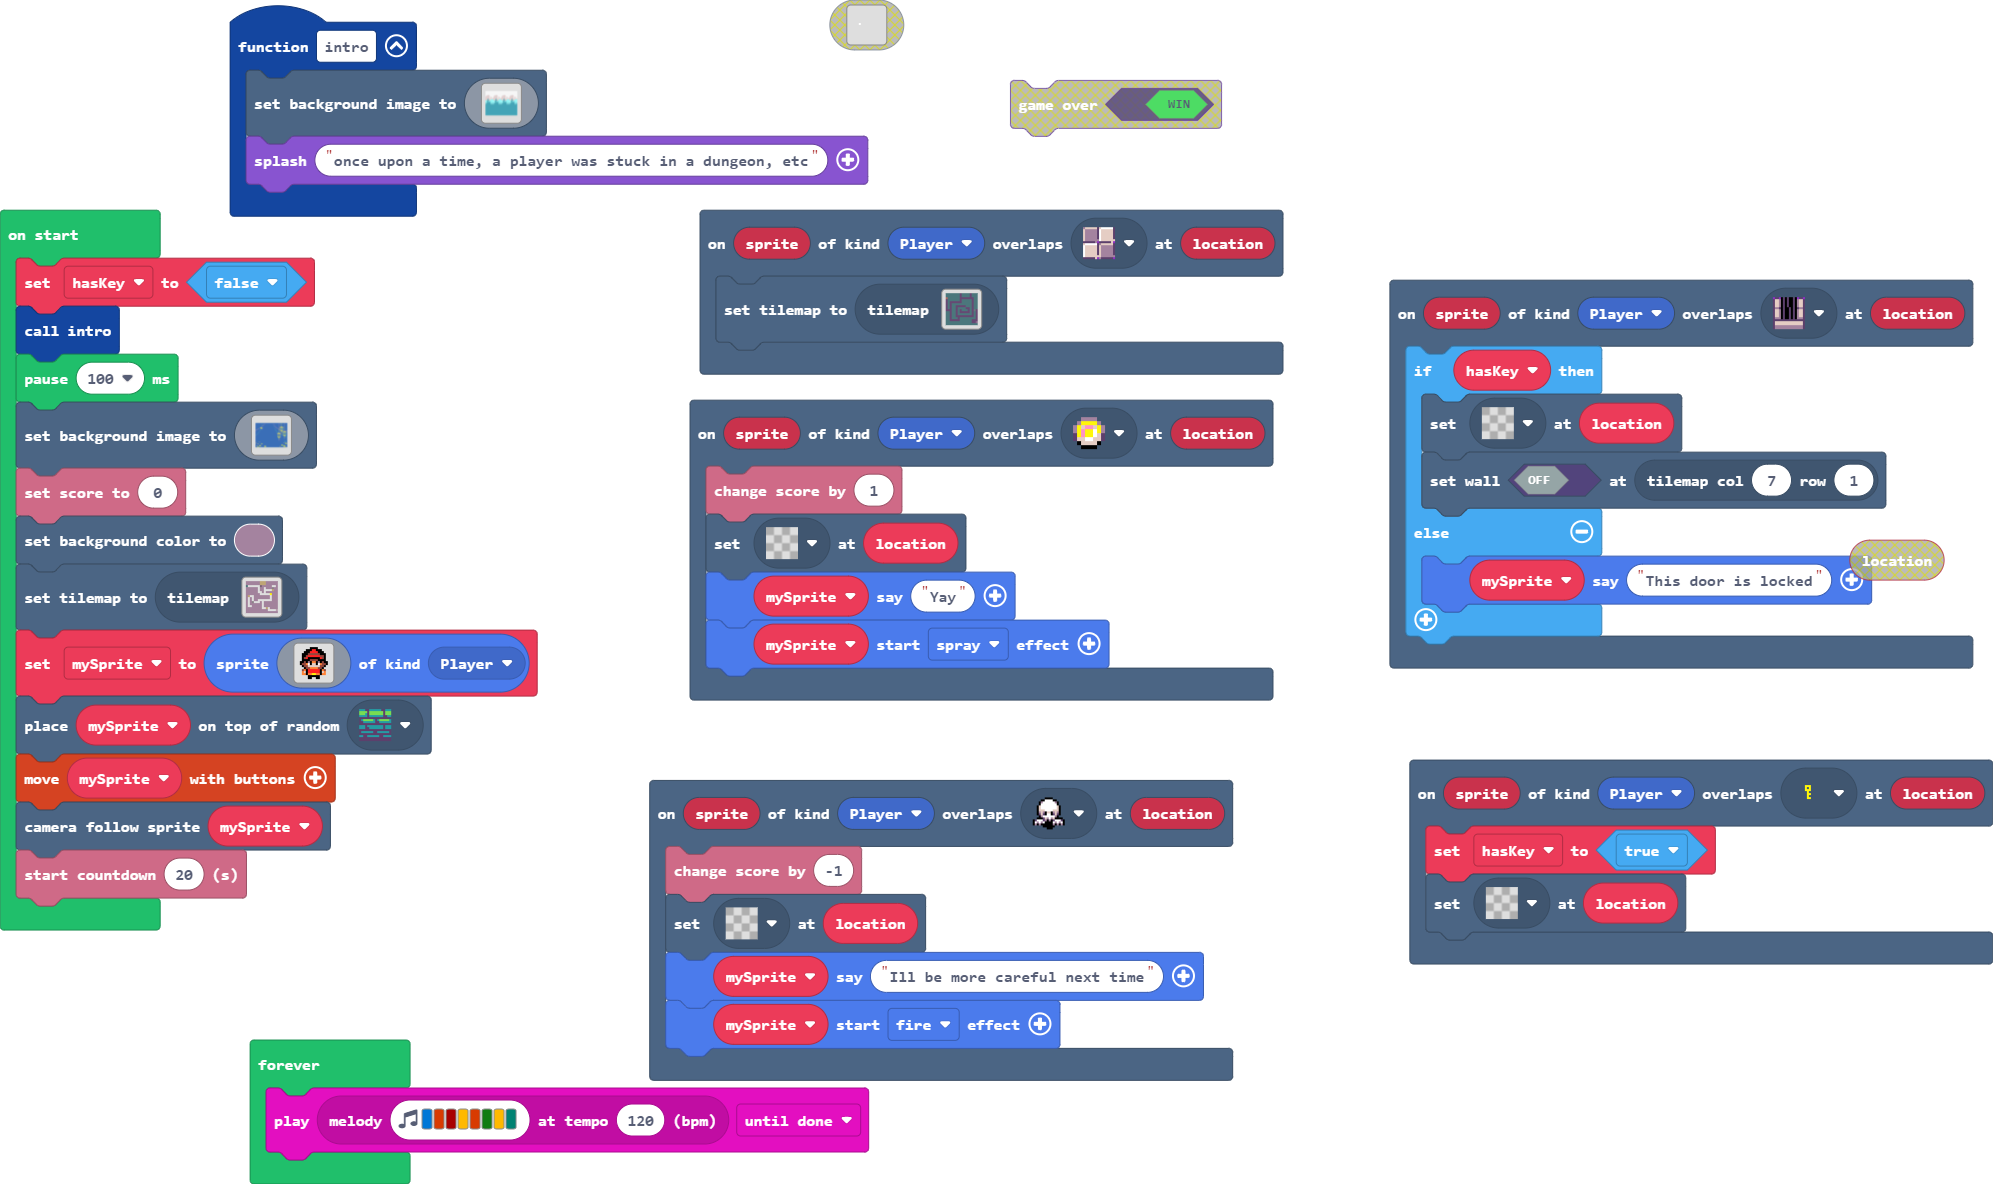
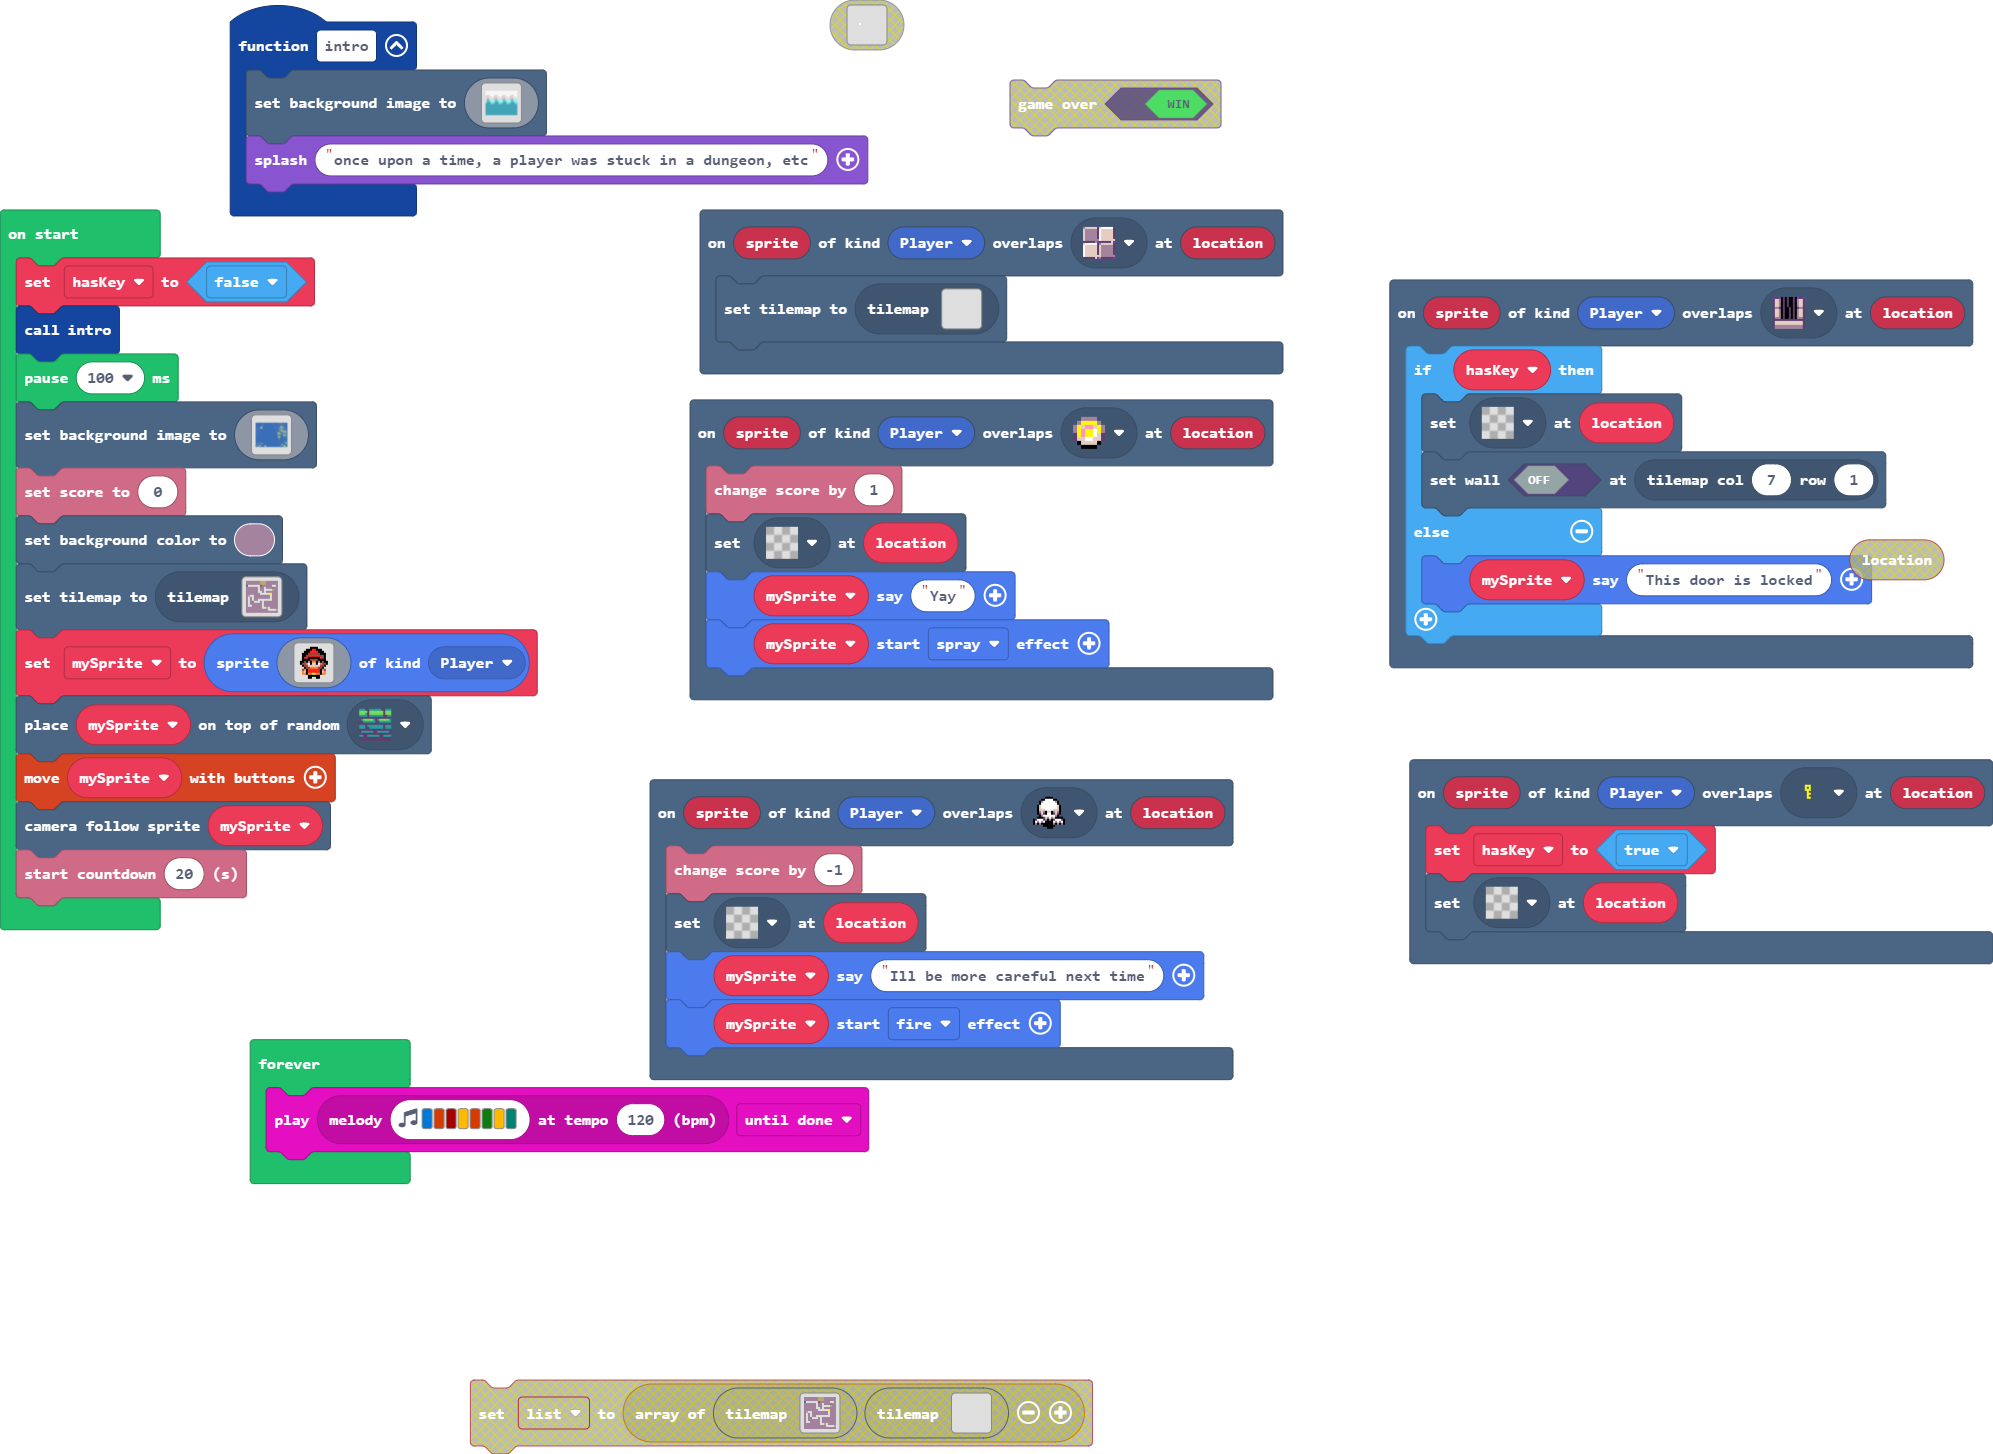
Update main.blocks, tilemap.g.jres, tilemap.g.ts

diff --git a/tilemap.g.ts b/tilemap.g.ts
@@ -8,8 +8,6 @@ namespace myTiles {
     export const tile2 = image.ofBuffer(hex``);
     //% fixedInstance jres blockIdentity=images._tile
     export const tile3 = image.ofBuffer(hex``);
-    //% fixedInstance jres blockIdentity=images._tile
-    export const tile5 = image.ofBuffer(hex``);
 
     helpers._registerFactory("tilemap", function(name: string) {
         switch(helpers.stringTrim(name)) {
@@ -109,7 +107,7 @@ namespace myTiles {
 . . . . . . . . . . . . . . . . 
 `, [myTiles.transparency16], TileScale.Sixteen);
             case "level6":
-            case "level6":return tiles.createTilemap(hex`1000100001010101010101020101010102010101010101010101010201010101020101010301010101010102020202020202010102010101010101020101010101020101020102020202020201010101010201010201020101010101010101010102010102010201010202020202010101020101020102010102010101010202010201010202020101020102010101020102050201010201010201020202020201020102010102010102010101010101010201020101020101020202020202020202010201010201010102010101010101010102010102020202020101010101010202020101010101010101010101010102020401010101010101010101010101010101`, img`
+            case "level6":return tiles.createTilemap(hex`1000100000000000000000000000000000000000000000000000000000000000000000000000000000000000000000000000000000000000000000000000000000000000000000000000000000000000000000000000000000000000000000000000000000000000000000000000000000000000000000000000000000000000000000000000000000000000000000000000000000000000000000000000000000000000000000000000000000000000000000000000000000000000000000000000000000000000000000000000000000000000000000000000000000000000000000000000000000000000000000000000000000000000000000000000000000000000`, img`
 . . . . . . . . . . . . . . . . 
 . . . . . . . . . . . . . . . . 
 . . . . . . . . . . . . . . . . 
@@ -126,7 +124,140 @@ namespace myTiles {
 . . . . . . . . . . . . . . . . 
 . . . . . . . . . . . . . . . . 
 . . . . . . . . . . . . . . . . 
-`, [myTiles.transparency16,sprites.dungeon.greenOuterEast0,sprites.dungeon.darkGroundNorthWest0,sprites.dungeon.chestClosed,myTiles.tile5,sprites.dungeon.greenSwitchUp], TileScale.Sixteen);
+`, [myTiles.transparency16], TileScale.Sixteen);
+            case "level7":
+            case "level7":return tiles.createTilemap(hex`1000100000000000000000000000000000000000000000000000000000000000000000000000000000000000000000000000000000000000000000000000000000000000000000000000000000000000000000000000000000000000000000000000000000000000000000000000000000000000000000000000000000000000000000000000000000000000000000000000000000000000000000000000000000000000000000000000000000000000000000000000000000000000000000000000000000000000000000000000000000000000000000000000000000000000000000000000000000000000000000000000000000000000000000000000000000000000`, img`
+. . . . . . . . . . . . . . . . 
+. . . . . . . . . . . . . . . . 
+. . . . . . . . . . . . . . . . 
+. . . . . . . . . . . . . . . . 
+. . . . . . . . . . . . . . . . 
+. . . . . . . . . . . . . . . . 
+. . . . . . . . . . . . . . . . 
+. . . . . . . . . . . . . . . . 
+. . . . . . . . . . . . . . . . 
+. . . . . . . . . . . . . . . . 
+. . . . . . . . . . . . . . . . 
+. . . . . . . . . . . . . . . . 
+. . . . . . . . . . . . . . . . 
+. . . . . . . . . . . . . . . . 
+. . . . . . . . . . . . . . . . 
+. . . . . . . . . . . . . . . . 
+`, [myTiles.transparency16], TileScale.Sixteen);
+            case "level8":
+            case "level8":return tiles.createTilemap(hex`1000100000000000000000000000000000000000000000000000000000000000000000000000000000000000000000000000000000000000000000000000000000000000000000000000000000000000000000000000000000000000000000000000000000000000000000000000000000000000000000000000000000000000000000000000000000000000000000000000000000000000000000000000000000000000000000000000000000000000000000000000000000000000000000000000000000000000000000000000000000000000000000000000000000000000000000000000000000000000000000000000000000000000000000000000000000000000`, img`
+. . . . . . . . . . . . . . . . 
+. . . . . . . . . . . . . . . . 
+. . . . . . . . . . . . . . . . 
+. . . . . . . . . . . . . . . . 
+. . . . . . . . . . . . . . . . 
+. . . . . . . . . . . . . . . . 
+. . . . . . . . . . . . . . . . 
+. . . . . . . . . . . . . . . . 
+. . . . . . . . . . . . . . . . 
+. . . . . . . . . . . . . . . . 
+. . . . . . . . . . . . . . . . 
+. . . . . . . . . . . . . . . . 
+. . . . . . . . . . . . . . . . 
+. . . . . . . . . . . . . . . . 
+. . . . . . . . . . . . . . . . 
+. . . . . . . . . . . . . . . . 
+`, [myTiles.transparency16], TileScale.Sixteen);
+            case "level9":
+            case "level9":return tiles.createTilemap(hex`1000100000000000000000000000000000000000000000000000000000000000000000000000000000000000000000000000000000000000000507070707040000000000000000000002060606060300000000000000000000020000000003000000000000000000000201010100030000000000000000000002000000000300000000000000000000020000000003000000000000000000000200000000030000000000000000000000000000000000000000000000000000000000000000000000000000000000000000000000000000000000000000000000000000000000000000000000000000000000000000000000000000000000000000000000000000000000`, img`
+. . . . . . . . . . . . . . . . 
+. . . . . . . . . . . . . . . . 
+. . . . . . . . . . . . . . . . 
+. . . . . . . . . . . . . . . . 
+. . . . . . . . . . . . . . . . 
+. . . . . . . . . . . . . . . . 
+. . . . . . . . . . . . . . . . 
+. . . . . . . . . . . . . . . . 
+. . . . . . . . . . . . . . . . 
+. . . . . . . . . . . . . . . . 
+. . . . . . . . . . . . . . . . 
+. . . . . . . . . . . . . . . . 
+. . . . . . . . . . . . . . . . 
+. . . . . . . . . . . . . . . . 
+. . . . . . . . . . . . . . . . 
+. . . . . . . . . . . . . . . . 
+`, [myTiles.transparency16,sprites.dungeon.stairLadder,sprites.dungeon.greenOuterWest1,sprites.dungeon.greenOuterEast0,sprites.dungeon.greenOuterNorthEast,sprites.dungeon.greenOuterNorthWest,sprites.dungeon.greenOuterNorth1,sprites.dungeon.greenOuterNorth0], TileScale.Sixteen);
+            case "level10":
+            case "level10":return tiles.createTilemap(hex`1000100000000000000000000000000000000000000000000000000000000000000000000000000000000000000000000000000000000000000000000000000000000000000000000000000000000000000000000000000000000000000000000000000000000000000000000000000000000000000000000000000000000000000000000000000000000000000000000000000000000000000000000000000000000000000000000000000000000000000000000000000000000000000000000000000000000000000000000000000000000000000000000000000000000000000000000000000000000000000000000000000000000000000000000000000000000000`, img`
+. . . . . . . . . . . . . . . . 
+. . . . . . . . . . . . . . . . 
+. . . . . . . . . . . . . . . . 
+. . . . . . . . . . . . . . . . 
+. . . . . . . . . . . . . . . . 
+. . . . . . . . . . . . . . . . 
+. . . . . . . . . . . . . . . . 
+. . . . . . . . . . . . . . . . 
+. . . . . . . . . . . . . . . . 
+. . . . . . . . . . . . . . . . 
+. . . . . . . . . . . . . . . . 
+. . . . . . . . . . . . . . . . 
+. . . . . . . . . . . . . . . . 
+. . . . . . . . . . . . . . . . 
+. . . . . . . . . . . . . . . . 
+. . . . . . . . . . . . . . . . 
+`, [myTiles.transparency16], TileScale.Sixteen);
+            case "level11":
+            case "level11":return tiles.createTilemap(hex`1000100000000000000000000000000000000000000000000000000000000000000000000000000000000000000000000000000000000000000000000000000000000000000000000000000000000000000000000000000000000000000000000000000000000000000000000000000000000000000000000000000000000000000000000000000000000000000000000000000000000000000000000000000000000000000000000000000000000000000000000000000000000000000000000000000000000000000000000000000000000000000000000000000000000000000000000000000000000000000000000000000000000000000000000000000000000000`, img`
+. . . . . . . . . . . . . . . . 
+. . . . . . . . . . . . . . . . 
+. . . . . . . . . . . . . . . . 
+. . . . . . . . . . . . . . . . 
+. . . . . . . . . . . . . . . . 
+. . . . . . . . . . . . . . . . 
+. . . . . . . . . . . . . . . . 
+. . . . . . . . . . . . . . . . 
+. . . . . . . . . . . . . . . . 
+. . . . . . . . . . . . . . . . 
+. . . . . . . . . . . . . . . . 
+. . . . . . . . . . . . . . . . 
+. . . . . . . . . . . . . . . . 
+. . . . . . . . . . . . . . . . 
+. . . . . . . . . . . . . . . . 
+. . . . . . . . . . . . . . . . 
+`, [myTiles.transparency16], TileScale.Sixteen);
+            case "level12":
+            case "level12":return tiles.createTilemap(hex`1000100000000000000000000000000000000000000000000000000000000000000000000000000000000000000000000000000000000000000000000000000000000000000000000000000000000000000000000000000000000000000000000000000000000000000000000000000000000000000000000000000000000000000000000000000000000000000000000000000000000000000000000000000000000000000000000000000000000000000000000000000000000000000000000000000000000000000000000000000000000000000000000000000000000000000000000000000000000000000000000000000000000000000000000000000000000000`, img`
+. . . . . . . . . . . . . . . . 
+. . . . . . . . . . . . . . . . 
+. . . . . . . . . . . . . . . . 
+. . . . . . . . . . . . . . . . 
+. . . . . . . . . . . . . . . . 
+. . . . . . . . . . . . . . . . 
+. . . . . . . . . . . . . . . . 
+. . . . . . . . . . . . . . . . 
+. . . . . . . . . . . . . . . . 
+. . . . . . . . . . . . . . . . 
+. . . . . . . . . . . . . . . . 
+. . . . . . . . . . . . . . . . 
+. . . . . . . . . . . . . . . . 
+. . . . . . . . . . . . . . . . 
+. . . . . . . . . . . . . . . . 
+. . . . . . . . . . . . . . . . 
+`, [myTiles.transparency16], TileScale.Sixteen);
+            case "level13":
+            case "level13":return tiles.createTilemap(hex`1000100000000000000000000000000000000000000000000000000000000000000000000000000000000000000000000000000000000000000000000000000000000000000000000000000000000000000000000000000000000000000000000000000000000000000000000000000000000000000000000000000000000000000000000000000000000000000000000000000000000000000000000000000000000000000000000000000000000000000000000000000000000000000000000000000000000000000000000000000000000000000000000000000000000000000000000000000000000000000000000000000000000000000000000000000000000000`, img`
+. . . . . . . . . . . . . . . . 
+. . . . . . . . . . . . . . . . 
+. . . . . . . . . . . . . . . . 
+. . . . . . . . . . . . . . . . 
+. . . . . . . . . . . . . . . . 
+. . . . . . . . . . . . . . . . 
+. . . . . . . . . . . . . . . . 
+. . . . . . . . . . . . . . . . 
+. . . . . . . . . . . . . . . . 
+. . . . . . . . . . . . . . . . 
+. . . . . . . . . . . . . . . . 
+. . . . . . . . . . . . . . . . 
+. . . . . . . . . . . . . . . . 
+. . . . . . . . . . . . . . . . 
+. . . . . . . . . . . . . . . . 
+. . . . . . . . . . . . . . . . 
+`, [myTiles.transparency16], TileScale.Sixteen);
         }
         return null;
     })
@@ -140,8 +271,6 @@ namespace myTiles {
             case "tile2":return tile2;
             case "myTile1":
             case "tile3":return tile3;
-            case "myTile3":
-            case "tile5":return tile5;
         }
         return null;
     })
